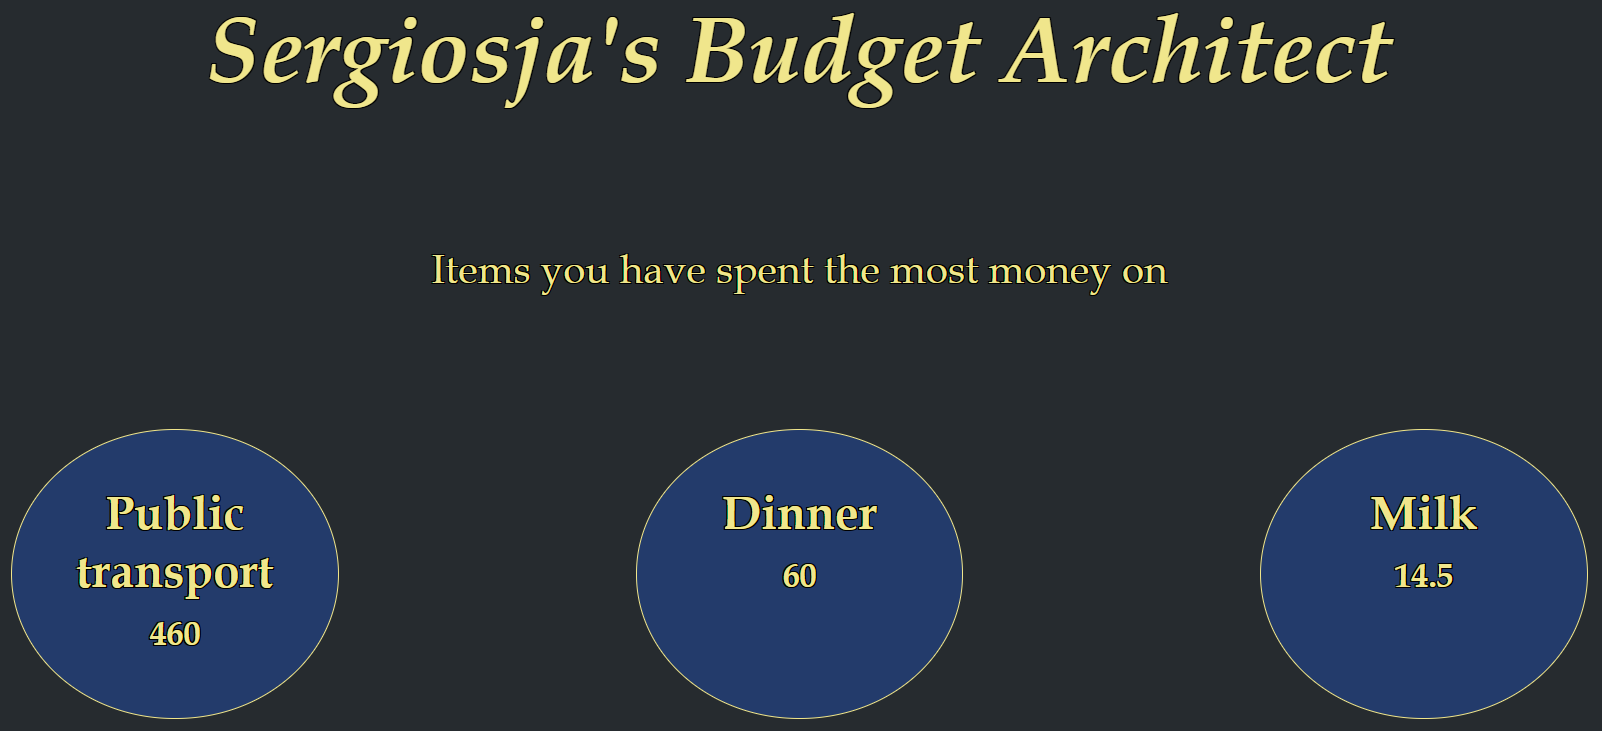
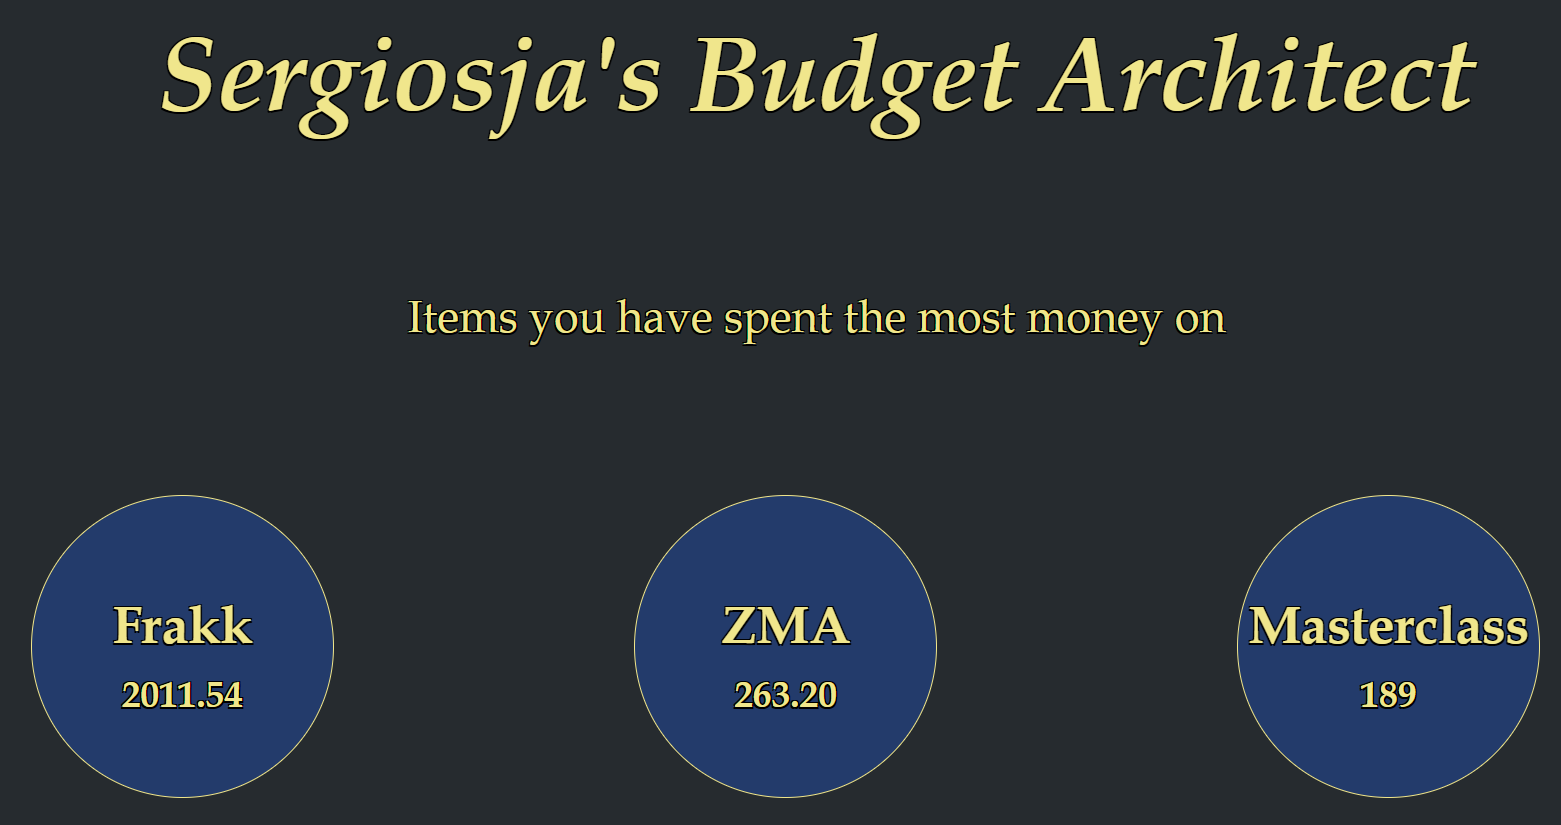
Updated gitignore and readme

diff --git a/views/CSS/stats.css b/views/CSS/stats.css
@@ -95,6 +95,5 @@ h3{
 }
 
 #winter:hover, #spring:hover, #summer:hover, #fall:hover, #red:hover{
-    font-size: 35px;
     background: #676b23;
 }

diff --git a/README.md b/README.md
@@ -2,53 +2,53 @@
 
 ## Main idea
 
-I started writing a template in Excel for my budget in 2021. I have never done this before, and figured it was well over-due. About 10 minutes in I thought to myself, "I bet I could automate this somehow". Now, of course, this program is not *really* an automation. Not a very impactful one at least. If anything, it is just an Excel spreadsheet that requires an internet connection (the GUI is fancy though!).
+I started writing a template in Excel for my budget in 2021. I have never done this before, and figured it was well over-due. About 10 minutes in I thought to myself, "I bet I could automate this somehow". 2 days later I had built this program.
 
-## Why not just use the app issued by your bank?
+Now, of course, this program is not *really* an automation. Not a very impactful one at least. If anything, it is just an Excel spreadsheet that requires an internet connection. The GUI is nice though.
 
-Like most other people, I have an app for my bank. There I can access my entire economy in one, an extremely clear GUI which allows you to navigate anything from your loans to your savings. It also allows you to see exactly how much you spent, which days and where you went shopping. In addition to everything else you should be doing with a bank. Very impressive and respectable.
+<br>
 
-*Aaand* that is actually part of the problem for me… Yes, you have a clear view of nearly everything. But I lack a sense of "real" control. I could easily remain ignorant about my economy by simply refraining from checking it. Which happens too often due to the advanced log-in system (though, obviously, due to security reasons, I am very happy it is the way it is).
+## Fundamentals
 
-My target was to have more *control*. I want to be aware of how much money I spend, and how much money comes in. In addition, I wanted to be more aware of *what* exactly I spend my money on.
-
-## What exactly *is* your program then?
-
-I'm glad you asked!
-
-### Fundamentals
-
-The front end is written in HTML/EJS and CSS, while the backend is JavaScript with NodeJS. You can view dependencies in the JSON file.
+The front end is written in HTML/EJS and CSS, while the backend is JavaScript with Node.js. You can view dependencies in the JSON file.
 
 I decided to go with PostgreSQL as my database, as it is a free, easy to use and highly scalable.
 
+<br>
+
 ### Login / Signup
 
-The index page is a simple login. If you lack an account, sign up for one with the button below. Make sure your passwords match and are secure, and, viola! The passwords are, of course, both salted and hashed adequately before they are stored in the database. Made an account yet? Great! Now sign up and let’s move on.
+The index page is a simple login. If you lack an account, sign up for one with the button below. The passwords are salted and hashed adequately before they are stored in the database.
 
 ![login](/Images/login.jpg)
 
+<br>
+
 ### Menu
 
-The main menu gives you 3 options: Go to \*current month*, see some stats, or choose a specific month for overview. The overview lets you navigate through every month of the year, while \*current month* lets you access the current month instantly. Because I assume the current month will always be the most relevant one. I will explain the stats further down.
+The main menu gives you 3 options: Go to \*current month*, see some stats, or choose a specific month for overview. I assumed the current month would always be the most relevant one.
 
 The name will change to your username when you log in.
 
 ![menu](/Images/menu.jpg)
 
+<br>
+
 ### Current month
 
-Here you have 7 options, though most of them are similar. You can add a new receipt consisting of one item, alter a receipt or delete one altogether (right). You have these three options for incomes as well (left). Here you add the source (where you bought it/who paid you), the matter (what you bought/why someone gave you money), the category (you decide this), and how much money it cost (**PS!** Floats are allowed, but they **must** be **dots** and **not commas**). I figured quantity would be unnecessary, because if you bought 30 NOK worth of blueberries, isn’t that enough? Do you *really* care *how many* you bought? Trust me, the first week of January you might miss this, but you will not go an entire calendar year counting every individual berry. Let’s be real…
+Here you have 7 options, though most of them are similar. You can add, alter and delete receipts (right). You have these three options for incomes as well (left).
 
-Example → Source: Coop. Matter: Bread. Category: Food. Cost: 34.25.
+Here you add the source (where you bought it/who paid you), the matter (what you bought/why someone gave you money), the category (you decide this), and how much money it cost (**PS!** Floats are allowed, but they must be dots).
 
 ![current](/Images/current.jpg)
 ![income](/Images/income.jpg)
 ![income](/Images/receipt.jpg)
 
-Because I realise that you rarely only buy 1 item when you go shopping, I have added an "Add 5" and an "Add 10" button, so that you won't have to go back and write the source-name 10 times. I needed seperate sections to prevent faulty results being sent to the database. I guess this is the only "automated" part of the whole program.
+Because I realise that you rarely only buy 1 item when you go shopping, I have added an "Add 5" and an "Add 10" button, so that you won't have to go back and re-write the source name 10 times. I guess this is the only "automated" part of the program.
 
-The last option is to see an overview (centre) of the current month, which is also what you will see if you click on a month from the "Months 2021"-section from the menu (though here you can select any month of the year).
+The last option is to see an overview (centre) of the current month.
+
+<br>
 
 ### Overview
 
@@ -57,23 +57,25 @@ The first thing you see is the amount you have earned (left), spent (right), and
 ![overview](/Images/overview.jpg)
 ![history](/Images/history.jpg)
 
-Even though I have not included it in every picture, the "back" button is, of course, available everywhere.
+Even though I have not included it in every picture, the "back" button is available everywhere.
 
 **PS!** To delete or alter a receipt/income you use the ID attatched to the one you want. This option is only found in the \*current month* section, though you can change any receipts/incomes. I just figured it would be reduntant to add this option in the big overview, as the functionality would be identical anyway.
 
+<br>
+
 ### Stats
 
-If you select the "2021 Stats" option from the menu, you will see fifteen balls with information. These contain the Top 3 items and categories you have spent the most money on, your Top 3 income sources and categories, and finally the month, week and day in 2021 you spent the most money on.
+If you select the "2021 Stats" option from the menu, you will see fifteen balls with information. These contain the Top 3 items and categories you have spent the most money on, your Top 3 income sources and categories, and finally the month and day in 2021 you spent the most money on.
 
-Holding your mouse over a section will force a font size increase and background change.
+Holding your mouse over a section will force a background change.
 
 ![stats](Images/stats1.jpg)
 ![stats](Images/stats2.jpg)
 
-### Flaws / Known bugs
-
-The most obvious flaw here is that, as I mentioned in the beginning, nothing is *really* automated. This *is* an excel sheet with a fancy GUI. And if I’m being totally frank, it’s not even that fancy. Though it **_will_** make you more aware of your economy. You will be forced to keep receipts (or at least remember what you bought). You will constantly be aware of what you are buying and how much you are spending. It is easy to buy unnecessary things when you do it unconsciously, but writing it down every night and seeing [unnecesarry item], [item you already have too many of] and [why on earth did you buy this?] at the top of your monthly summary might send some signals.
-
 <br>
 
-Oh and yes, of course, the date thing in the monthly history display. Any help to fix that is very much appreciated!
+### Flaws / Known bugs
+
+The most obvious flaw here is that, as I mentioned in the beginning, nothing is *really* automated. But it will make you more aware of how you spend your money!
+
+The date thing in the monthly history display. Any help to fix that is very much appreciated!
